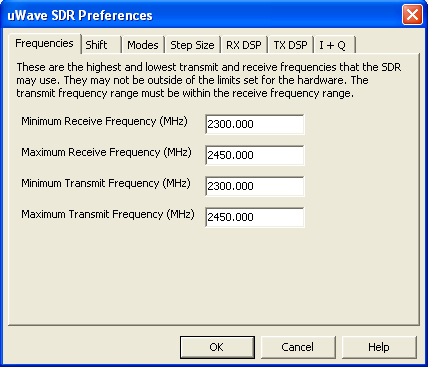
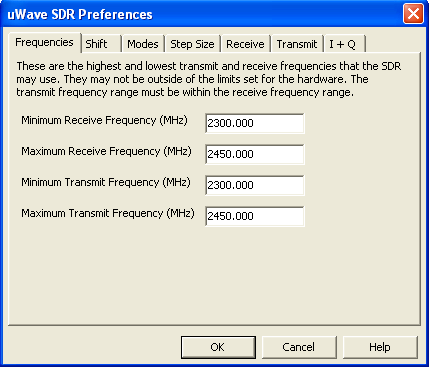
Finished the RF Gain control, added Help pages for Receive and I+Q preferences tabs.

diff --git a/trunk/Software/Help/UWSDR/Preferences.htm b/trunk/Software/Help/UWSDR/Preferences.htm
@@ -3,13 +3,18 @@
 <title>Preferences</title>
 </head>
 <body>
-<p><img src="Preferences.png" width="428" height="367" /></p>
+<p><img src="Preferences.png" width="429" height="367" /></p>
 <p>The Preferences are a set of screens that allow for the setting of less commonly used settings, they are moved onto this part of the GUI in order to leave the main screen without too much clutter. The screens are:</p>
+<p>
 <ul>
-<li><a href="FreqPref.htm">Frequency Limits</a></li>
-<li><a href="ShiftPref.htm">Shift Size</a></li>
-<li><a href="ModePref.htm">Mode Settings</a></li>
+<li><a href="FreqPref.htm">Frequencies</a></li>
+<li><a href="ShiftPref.htm">Shift</a></li>
+<li><a href="ModePref.htm">Modes</a></li>
 <li><a href="StepPref.htm">Step Size</a></li>
+<li><a href="ReceivePref.htm">Receive</a></li>
+<li><a href="TransmitPref.htm">Transmit</a></li>
+<li><a href="IQPref.htm">I + Q</a></li>
 </ul>
+</p>
 </body>
 </html>

diff --git a/trunk/Software/Help/UWSDR/ReceivePref.htm b/trunk/Software/Help/UWSDR/ReceivePref.htm
@@ -1,0 +1,10 @@
+<html>
+<head>
+<title>Receive (Preferences)</title>
+</head>
+<body>
+<p><img src="ReceivePref.png" width="405" height="175" /></p>
+<p>This screen handles the less commonly required settings for the receiver. These are the settings for two different noise blankers, one for impulse noise (Impulse Noise Blanker) and a more general noise blanker (Mean Noise Blanker). Both of these may be enabled with the buttons to the left of the slide controls.</p>
+<p>The amount of attenuation ahead of the IF strip may also be set here. With the RF Gain set to it's rightmost position there is no attenuation whereas the leftmost position is maximum attenuation, and no signals will be heard.</p>
+</body>
+</html>

diff --git a/trunk/Software/Help/UWSDR/Menu.htm b/trunk/Software/Help/UWSDR/Menu.htm
@@ -5,6 +5,7 @@
 <body>
 <p><img src="Menu.png" width="160" height="27" /></p>
 <p>The Menu Button allows access to less commonly used functions within the GUI. It has the following entries:</p>
+<p>
 <ul>
 <li><a href="FreqKeypad.htm">Frequency Keypad</a></li>
 <li><a href="Preferences.htm">Preferences</a></li>
@@ -16,5 +17,6 @@
 <li><a href="AboutUWSDR.htm">About uWave SDR</a></li>
 <li><a href="Exit.htm">Exit</a></li>
 </ul>
+</p>
 </body>
 </html>

diff --git a/trunk/Software/Help/UWSDR/IQPref.htm b/trunk/Software/Help/UWSDR/IQPref.htm
@@ -1,0 +1,9 @@
+<html>
+<head>
+<title>I + Q (Preferences)</title>
+</head>
+<body>
+<p><img src="IQPref.png" width="390" height="130" /></p>
+<p>This screen allows for the setting of the gain and phase imbalance between the I and Q channels on both transmit and receive. This is needed to cancel imbalances within the hardware. A value of zero means no change in either the gain or phase.</p>
+</body>
+</html>

diff --git a/trunk/Software/Help/UWSDR/FreqPref.htm b/trunk/Software/Help/UWSDR/FreqPref.htm
@@ -1,6 +1,6 @@
 <html>
 <head>
-<title>Frequency Limits</title>
+<title>Frequencies (Preferences)</title>
 </head>
 <body>
 <p><img src="FreqPref.png" width="400" height="190" /></p>

diff --git a/trunk/Software/Help/UWSDR/ModePref.htm b/trunk/Software/Help/UWSDR/ModePref.htm
@@ -1,6 +1,6 @@
 <html>
 <head>
-<title>Mode Settings</title>
+<title>Modes (Preferences)</title>
 </head>
 <body>
 <p><img src="ModePref.png" width="408" height="265" /></p>

diff --git a/trunk/Software/Help/UWSDR/StepPref.htm b/trunk/Software/Help/UWSDR/StepPref.htm
@@ -1,6 +1,6 @@
 <html>
 <head>
-<title>Step Size</title>
+<title>Step Size (Preferences)</title>
 </head>
 <body>
 <p><img src="StepPref.png" width="400" height="220" /></p>

diff --git a/trunk/Software/Help/UWSDR/ShiftPref.htm b/trunk/Software/Help/UWSDR/ShiftPref.htm
@@ -1,6 +1,6 @@
 <html>
 <head>
-<title>Shift Size</title>
+<title>Shift (Preferences)</title>
 </head>
 <body>
 <p><img src="ShiftPref.png" width="400" height="80" /></p>

diff --git a/trunk/Software/UWSDRGUI/DTTSPControl.cpp b/trunk/Software/UWSDRGUI/DTTSPControl.cpp
@@ -322,27 +322,27 @@ float CDTTSPControl::getMeter(int type)
 		case METER_I_INPUT:
 			val = ::Calculate_Meters(ADC_REAL);
 			if (val != -200.0F)
-				val += 50.0F;
+				val += 55.0F;
 			break;
 		case METER_Q_INPUT:
 			val = ::Calculate_Meters(ADC_IMAG);
 			if (val != -200.0F)
-				val += 50.0F;
+				val += 55.0F;
 			break;
 		case METER_SIGNAL:
 			val = ::Calculate_Meters(SIGNAL_STRENGTH);
 			if (val != -200.0F)
-				val += 40.0F;
+				val += 45.0F;
 			break;
 		case METER_AVG_SIGNAL:
 			val = ::Calculate_Meters(AVG_SIGNAL_STRENGTH);
 			if (val != -200.0F)
-				val += 40.0F;
+				val += 45.0F;
 			break;
 		case METER_AGC:
 			val = ::Calculate_Meters(AGC_GAIN);
 			if (val != -200.0F)
-				val -= 57.0F;
+				val -= 62.0F;
 			break;
 		case METER_MICROPHONE:
 			val = ::Calculate_Meters(MIC);

diff --git a/trunk/Software/SDREmulator/DataControl.cpp b/trunk/Software/SDREmulator/DataControl.cpp
@@ -151,7 +151,7 @@ bool CDataControl::setSoundFileReader(const wxString& fileName)
 
 bool CDataControl::openIO()
 {
-	m_internal1Reader  = new CSignalReader(m_sampleRate / 4.0F + 1000.5F, 0.0008F, 0.001F);
+	m_internal1Reader  = new CSignalReader(m_sampleRate / 4.0F + 1000.5F, 0.0003F, 0.0004F);
 	m_internal2Reader  = new CSignalReader(m_sampleRate / 4.0F, 0.0F, 0.001F);
 	m_soundCardReader  = new CSoundCardReader(m_api, m_inDev);
 	m_rxWriter         = new CSDRDataWriter(m_address, m_port, m_maxSamples, m_delay);

diff --git a/trunk/Software/UWSDRGUI/UWSDRPreferences.cpp b/trunk/Software/UWSDRGUI/UWSDRPreferences.cpp
@@ -732,7 +732,8 @@ wxPanel* CUWSDRPreferences::createReceiveTab(wxNotebook* noteBook)
 
 	wxStaticText* label = new wxStaticText(panel, -1,
 		_("The DSP includes two advanced notch blankers, they can be enabled here, and\n"
-		  "their detection threshold values set."));
+		  "their detection threshold values set. The amount of attenuation before the IF\n"
+		  "strip may also be changed here."));
 	mainSizer->Add(label, 0, wxALL, BORDER_SIZE);
 
 	wxFlexGridSizer* sizer = new wxFlexGridSizer(3);

diff --git a/trunk/Software/UWSDRGUI/UWSDRFrame.cpp b/trunk/Software/UWSDRGUI/UWSDRFrame.cpp
@@ -1250,7 +1250,7 @@ void CUWSDRFrame::onTimer(wxTimerEvent& event)
 			m_sMeter->setLevel(val);
 
 			m_dsp->getSpectrum(m_spectrum, m_parameters->m_spectrumPos);
-			m_spectrumDisplay->showSpectrum(m_spectrum, -30.0F);
+			m_spectrumDisplay->showSpectrum(m_spectrum, -35.0F);
 
 			float offset = m_spectrumDisplay->getFreqPick();
 			if (offset != 0.0F)
